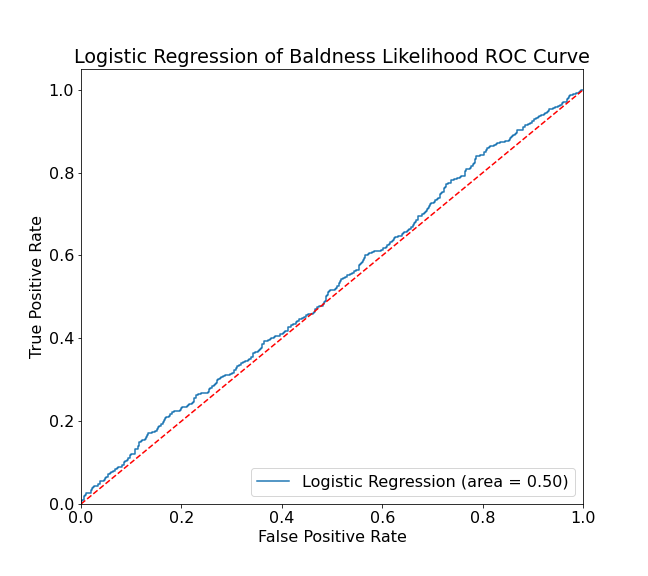
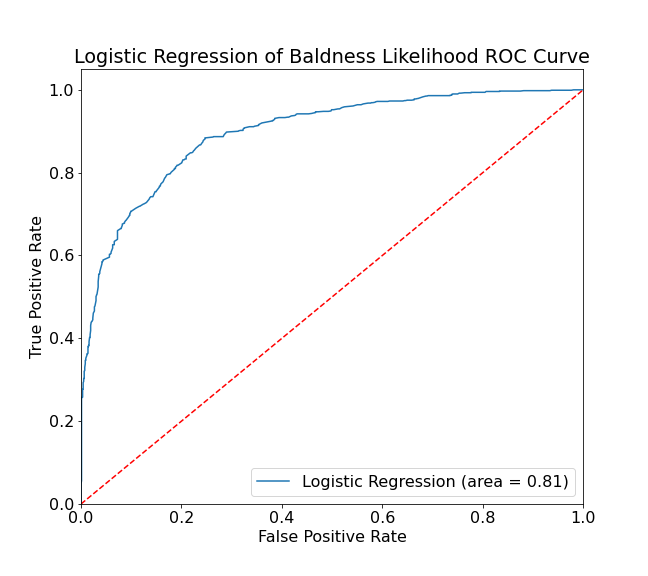
added knn

diff --git a/bald_final_19Apr_v2.py b/bald_final_19Apr_v2.py
@@ -792,9 +792,8 @@ print(f"Proportion of Baldness Likelihood 0: {len(df_encoded2[df_encoded2['bald_
 
 
 # %%
+# drop the depedent variablles.
 X = df_encoded2.drop(labels=['bald_prob', 'bald_likelihood'], axis=1)
-y = df_encoded2['bald_likelihood']
-X_train, X_test, y_train, y_test = train_test_split(X, y, test_size=0.33, random_state=42)
 
 #%%[markdown]
 # ## Features Selection and Model Building
@@ -806,42 +805,49 @@ X_train, X_test, y_train, y_test = train_test_split(X, y, test_size=0.33, random
 # use RFE to select features for the model
 from sklearn.feature_selection import RFE
 from sklearn.linear_model import LogisticRegression
+from sklearn.metrics import accuracy_score, precision_score, recall_score
+from sklearn.metrics import confusion_matrix
+
+from sklearn.preprocessing import StandardScaler
+
+sc = StandardScaler()
+
 import statsmodels.api as sm
 
-logreg = LogisticRegression()
-rfe = RFE(logreg, n_features_to_select=10)
-rfe = rfe.fit(X_train, y_train)
+features = ['hereditary', 'job_Jobless', 'age', 'job_Government Employee', 'gender', 
+             'stress_Low']
 
-X_trans = X_train[rfe.get_feature_names_out()]
-X_test_trans = X_test[rfe.get_feature_names_out()]
+X = X[features]
+y = df_encoded2['bald_likelihood']
+
+X_train, X_test, y_train, y_test = train_test_split(X, y, test_size=0.33, random_state=42)
+
+X_train = sc.fit_transform(X_train)
+X_test = sc.transform(X_test)
 
 
-model= sm.Logit(y_train,X_trans)
+def lreg(X_train, X_test, y_train, y_test, n_neighbors=5):
 
-result=model.fit()
+    logreg = LogisticRegression()
+    logreg.fit(X_train, y_train)
+    y_pred = logreg.predict(X_test)
 
-print(result.summary2())
-print("We drop the variable weight")
-# %%
-X_trans = X_trans.drop(labels=["weight"], axis = 1)
-X_test_trans = X_test_trans.drop(labels=["weight"], axis = 1)
-model= sm.Logit(y_train, X_trans)
+    cm = confusion_matrix(y_test, y_pred)
+    accuracy = accuracy_score(y_test,y_pred)
+    precision = precision_score(y_test, y_pred)
+    recall = recall_score(y_test, y_pred)
 
-result=model.fit()
+    return logreg, y_pred, cm, accuracy, precision, recall
 
-print(result.summary2())
+logreg, y_pred, cm, accuracy, precision, recall = lreg(X_train, X_test, y_train, y_test)
+
 
 # %%[markdown]
-from sklearn.metrics import (confusion_matrix, 
-                           accuracy_score)
 # Model Evaluation
 # 1. Confusion Matrix
-
-model = logreg.fit(X_trans, y_train)
-y_pred = logreg.fit(X_trans, y_train).predict(X_test_trans)
 cmatrix = confusion_matrix(y_pred, y_test) 
+print(" We use the standard deviation of Scikit Learn ")
 print(cmatrix)
-
 #%%[markdown]
 
 # 2. Scores:
@@ -858,9 +864,9 @@ print(cmatrix)
 # A value close to `1` means not many incorrect negative predictions. A value close to `0` means a lot of false negative.
 
 from sklearn.metrics import accuracy_score, precision_score, recall_score
-print(f"The accuracy score = {accuracy_score(y_test, y_pred):.2f}")
-print(f"The precision score = {precision_score(y_test, y_pred):.2f}")
-print(f"The recall score = {recall_score(y_test, y_pred):.2f}")
+print(f"The accuracy score = {accuracy:.2f}")
+print(f"The precision score = {precision:.2f}")
+print(f"The recall score = {recall:.2f}")
 
 #%%[markdown]
 # 2. The ROC Curve
@@ -868,8 +874,8 @@ print(f"The recall score = {recall_score(y_test, y_pred):.2f}")
 from sklearn.metrics import roc_auc_score
 from sklearn.metrics import roc_curve
 
-logit_roc_auc = roc_auc_score(y_test, logreg.predict(X_test_trans))
-fpr, tpr, thresholds = roc_curve(y_test, logreg.predict_proba(X_test_trans)[:,1])
+logit_roc_auc = roc_auc_score(y_test, logreg.predict(X_test))
+fpr, tpr, thresholds = roc_curve(y_test, logreg.predict_proba(X_test)[:,1])
 plt.figure(figsize=(9, 8))
 plt.plot(fpr, tpr, label='Logistic Regression (area = %0.2f)' % logit_roc_auc)
 plt.plot([0, 1], [0, 1],'r--')
@@ -883,7 +889,10 @@ plt.savefig('Log_ROC')
 plt.show()
 #%%[markdown]
 # ## Conclusion 
-# The model does not perform well. It is indistinguishable from a model that assigns baldness likelihood 0 or 1 randomly.
+# The model performs well. 
+# * It classifies the baldness likelihood correctly 81% of the time (accuracy). 
+# * A positive prediction is correct 82% of the time (precision).
+# * Out of incorrect negative prediction and correct positive prediction, a positive prediction is correct is 82% of the time (Recall). 
 
 # %%[markdown]
 # # K-Means Clustering
@@ -899,7 +908,7 @@ color_map = {0:'teal', 1:'blue', 2:'magenta'}
 
 def make_clusters(col, nclusters):
 
-    xdata = np.array(X[col])
+    xdata = np.array(df_encoded2[col])
 
     data = list(zip(xdata, y))
     kmeans = KMeans(n_clusters=nclusters)
@@ -910,7 +919,7 @@ def make_clusters(col, nclusters):
 # determine the number of clusters with the Elbow method
 def get_inertia_plots(col):
     inertias = []
-    data = list(zip(X[col], y))
+    data = list(zip(df_encoded2[col], y))
     for i in range(1,11):
         kmeans = KMeans(n_clusters=i)
         kmeans.fit(data)
@@ -931,8 +940,8 @@ print("Based on the Elbow methods, we choose 3 clusters for age and salary.")
 #%%
 # Get clusters for age and salary
 fig, (ax1, ax2) = plt.subplots(1,2, figsize=(12,6))
-ax1.scatter(X['age'],y, c=[color_map[j] for j in make_clusters('age', 3)] )
-ax2.scatter(X['salary'],y, c=[color_map[j] for j in make_clusters('salary', 3)])
+ax1.scatter(df_encoded2['age'],y, c=[color_map[j] for j in make_clusters('age', 3)] )
+ax2.scatter(df_encoded2['salary'],y, c=[color_map[j] for j in make_clusters('salary', 3)])
 ax1.set_xlabel("Age")
 ax1.set_ylabel("Baldness Probabolity")
 ax1.set_title("Bladness probability\n with age")
@@ -950,8 +959,8 @@ print("Based on the Elbow methods, we choose 3 clusters for weight and height.")
 col1 = 'weight'
 col2 = 'height'
 fig, (ax1, ax2) = plt.subplots(1,2, figsize=(12,6))
-ax1.scatter(X[col1],y, c=[color_map[j] for j in make_clusters(col1, 3)])
-ax2.scatter(X[col2],y, c=[color_map[j] for j in make_clusters(col2, 3)])
+ax1.scatter(df_encoded2[col1],y, c=[color_map[j] for j in make_clusters(col1, 3)])
+ax2.scatter(df_encoded2[col2],y, c=[color_map[j] for j in make_clusters(col2, 3)])
 ax1.set_xlabel(f"{col1}")
 ax1.set_ylabel("Baldness Probabolity")
 ax1.set_title(f"Bladness probability\n with {col1}")
@@ -959,3 +968,37 @@ ax2.set_xlabel(f"{col2}")
 ax2.set_ylabel("Baldness Probabolity")
 ax2.set_title(f"Bladness probability\n with {col2}")
 plt.show()
+
+# %%[markdown]
+# # K-Nearest Neighbors 
+from sklearn.neighbors import KNeighborsClassifier
+
+features = ['hereditary', 'job_Jobless', 'age', 'job_Government Employee', 'gender', 
+             'stress_Low']
+
+X = df_encoded2.drop(columns=['bald_prob', 'bald_likelihood'])
+X = X[features]
+y = df_encoded2['bald_likelihood']
+X_train, X_test, y_train, y_test = train_test_split(X, y, 
+                                            test_size = 0.20, random_state = 0)
+
+
+def KNN(X_train, X_test, y_train, y_test, n_neighbors=5):
+
+    
+    X_train = sc.fit_transform(X_train)
+    X_test = sc.transform(X_test)
+
+    classifier = KNeighborsClassifier(n_neighbors = 5, metric = 'minkowski', p = 2)
+    classifier.fit(X_train, y_train)
+    y_pred = classifier.predict(X_test)
+
+    cm = confusion_matrix(y_test, y_pred)
+    ac = accuracy_score(y_test,y_pred)
+
+    return classifier, cm, ac
+
+_, cm, ac = KNN(X_train, X_test, y_train, y_test)
+
+
+# %%
